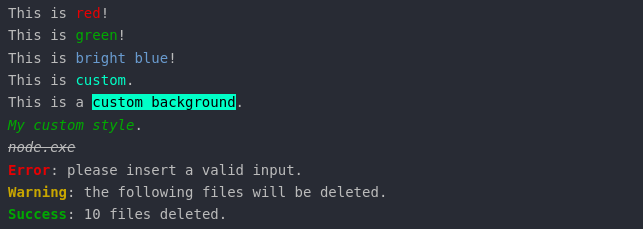
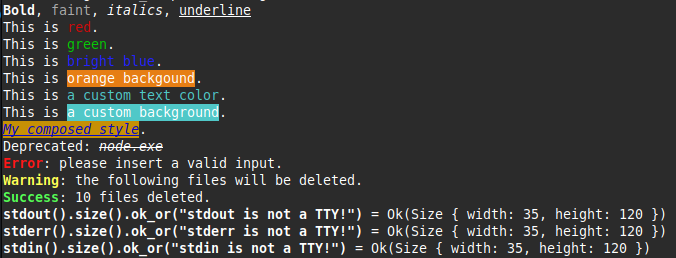
release 1.0.0

Changed region(s): [[0.0, 0.0, 0.9953, 1.0]]

diff --git a/src/main.rs b/src/main.rs
@@ -12,153 +12,162 @@ macro_rules! debug {
 
 // I'm using main because tests deactivate stdout
 fn main() {
-  use term_lab::styles::{ Stylize, Rgb };
+  let cmd = std::env::args().nth(1).unwrap_or("default".to_owned());
+  match cmd.as_str() {
+    "default" => default(),
+    "demo" => demo(),
+    _ => eprintln!("Oops")
+  }
+}
 
-// Use text styles.
-println!("{}", "bold".bold());
-println!("{}", "faint".faint());
-println!("{}", "italics".italics());
-println!("{}", "underline".underlined());
+fn default() {
+  debug!(stdout().size());
+  debug!(stderr().size());
+  debug!(stdin().size());
+  println!(
+    "{}, {}, {}",
+    "Bold".bold(),
+    "faint".faint(),
+    "italics".italics(),
+  );
+  println!(
+    "{}, {}",
+    "Slow blink".slow_blink(),
+    "fast blink".fast_blink()
+  );
+  println!(
+    "{}, ({})",
+    "Inverted".inverted(),
+    "invisible".invisible()
+  );
+  println!(
+    "{}, {}, {}, {}",
+    "Underline".underlined(),
+    "double underline".double_underlined(),
+    "overline".overlined(),
+    "striked".striked()
+  );
+  println!(
+    "{}, {}, {}, {}, {}, {}, {}, {}",
+    "Black".black(),
+    "red".red(),
+    "green".green(),
+    "yellow".yellow(),
+    "blue".blue(),
+    "magenta".magenta(),
+    "cyan".cyan(),
+    "white".white()
+  );
+  println!(
+    "{}, {}, {}, {}, {}, {}, {}, {}",
+    "Black".bright_black(),
+    "red".bright_red(),
+    "green".bright_green(),
+    "yellow".bright_yellow(),
+    "blue".bright_blue(),
+    "magenta".bright_magenta(),
+    "cyan".bright_cyan(),
+    "white".bright_white()
+  );
+  println!(
+    "{}, {}, {}, {}, {}, {}, {}, {}",
+    "Black".black_bg(),
+    "red".red_bg(),
+    "green".green_bg(),
+    "yellow".yellow_bg(),
+    "blue".blue_bg(),
+    "magenta".magenta_bg(),
+    "cyan".cyan_bg(),
+    "white".white_bg()
+  );
+  println!(
+    "{}, {}, {}, {}, {}, {}, {}, {}",
+    "Black".bright_black_bg(),
+    "red".bright_red_bg(),
+    "green".bright_green_bg(),
+    "yellow".bright_yellow_bg(),
+    "blue".bright_blue_bg(),
+    "magenta".bright_magenta_bg(),
+    "cyan".bright_cyan_bg(),
+    "white".bright_white_bg()
+  );
+  println!(
+    "{}, {}, {}",
+    "Orange".orange(),
+    "blueberry".blueberry(),
+    "pink".pink()
+  );
+  println!(
+    "{}, {}, {}",
+    "Orange".orange_bg(),
+    "blueberry".blueberry_bg(),
+    "pink".pink_bg()
+  );
+  println!(
+    "{}, {}, {}, {}",
+    "Deprecated".deprecated(),
+    "error".error(),
+    "warning".warning(),
+    "success".success()
+  );
+  let rgb = Rgb(110, 255, 175);
+  println!(
+    "{}, {}",
+    "RGB foreground".rgb(rgb),
+    "RGB background".rgb_bg(rgb)
+  );
+  let text = "Bold + italics".style()
+    .bold()
+    .italics()
+    .build();
+  println!("{} ({:?})", text, text);
+  let text = "A bunch of styles"
+    .style()
+    .rgb(Rgb(0xff, 0xff, 0x50))
+    .rgb_bg(Rgb(0x50, 0x50, 0xff)) 
+    .bold()
+    .faint()
+    .italics()
+    .double_underlined()
+    .overlined()
+    .striked()
+    .slow_blink()
+    .inverted()
+    .build();
+  println!("{} ({:?})", text, text);
+}
 
-// Use your terminal's color palette.
-println!("This is {}!", "red".red());
-println!("This is {}!", "green".green());
-println!("This is {}!", "bright blue".bright_blue());
-println!("This is {}!", "orange backgound".orange_bg());
+fn demo() {
+  // Use text styles.
+  println!(
+    "{}, {}, {}, {}",
+    "Bold".bold(),
+    "faint".faint(),
+    "italics".italics(),
+    "underline".underlined()
+  );
 
-// Use a custom color palette.
-println!("This is {}.", "custom".rgb(Rgb(80, 255, 200)));
-println!("This is a {}.", "custom background".rgb_bg(Rgb(80, 255, 200)));
+  // Use your terminal's color palette.
+  println!("This is {}.", "red".red());
+  println!("This is {}.", "green".green());
+  println!("This is {}.", "bright blue".bright_blue());
+  println!("This is {}.", "orange background".orange_bg());
 
-// Use a style builder to print less characters and improve performance.
-println!("{}.", "My custom style".style().green().italics().build()); 
+  // Use a custom color palette.
+  println!("This is {}.", "a custom text color".rgb(Rgb(80, 200, 200)));
+  println!("This is {}.", "a custom background".rgb_bg(Rgb(80, 200, 200)));
 
-// Some predefined styles.
-eprintln!("{}", "node.exe".deprecated());
-eprintln!("{}: please insert a valid input.", "Error".error());
-eprintln!("{}: the following files will be deleted.", "Warning".warning());
-eprintln!("{}: 10 files deleted.", "Success".success());
+  // Use a style builder to print less characters and improve performance.
+  println!("{}.", "My composed style".style().blue().yellow_bg().italics().underlined().build());
 
+  // Some predefined styles.
+  eprintln!("Deprecated: {}", "node.exe".deprecated());
+  eprintln!("{}: please insert a valid input.", "Error".error());
+  eprintln!("{}: the following files will be deleted.", "Warning".warning());
+  eprintln!("{}: 10 files deleted.", "Success".success());
 
-use std::io::{ stdout, stderr, stdin };
-use term_lab::info::TermInfo;
-
-// Get the size of the terminal
-dbg!(stdout().size().ok_or("stdout is not a TTY!"));
-dbg!(stderr().size().ok_or("stderr is not a TTY!"));
-dbg!(stdin().size().ok_or("stdin is not a TTY!"));
-  // debug!(stdout().size());
-  // debug!(stderr().size());
-  // debug!(stdin().size());
-  // println!(
-  //   "{}, {}, {}",
-  //   "Bold".bold(),
-  //   "faint".faint(),
-  //   "italics".italics(),
-  // );
-  // println!(
-  //   "{}, {}",
-  //   "Slow blink".slow_blink(),
-  //   "fast blink".fast_blink()
-  // );
-  // println!(
-  //   "{}, ({})",
-  //   "Inverted".inverted(),
-  //   "invisible".invisible()
-  // );
-  // println!(
-  //   "{}, {}, {}, {}",
-  //   "Underline".underlined(),
-  //   "double underline".double_underlined(),
-  //   "overline".overlined(),
-  //   "striked".striked()
-  // );
-  // println!(
-  //   "{}, {}, {}, {}, {}, {}, {}, {}",
-  //   "Black".black(),
-  //   "red".red(),
-  //   "green".green(),
-  //   "yellow".yellow(),
-  //   "blue".blue(),
-  //   "magenta".magenta(),
-  //   "cyan".cyan(),
-  //   "white".white()
-  // );
-  // println!(
-  //   "{}, {}, {}, {}, {}, {}, {}, {}",
-  //   "Black".bright_black(),
-  //   "red".bright_red(),
-  //   "green".bright_green(),
-  //   "yellow".bright_yellow(),
-  //   "blue".bright_blue(),
-  //   "magenta".bright_magenta(),
-  //   "cyan".bright_cyan(),
-  //   "white".bright_white()
-  // );
-  // println!(
-  //   "{}, {}, {}, {}, {}, {}, {}, {}",
-  //   "Black".black_bg(),
-  //   "red".red_bg(),
-  //   "green".green_bg(),
-  //   "yellow".yellow_bg(),
-  //   "blue".blue_bg(),
-  //   "magenta".magenta_bg(),
-  //   "cyan".cyan_bg(),
-  //   "white".white_bg()
-  // );
-  // println!(
-  //   "{}, {}, {}, {}, {}, {}, {}, {}",
-  //   "Black".bright_black_bg(),
-  //   "red".bright_red_bg(),
-  //   "green".bright_green_bg(),
-  //   "yellow".bright_yellow_bg(),
-  //   "blue".bright_blue_bg(),
-  //   "magenta".bright_magenta_bg(),
-  //   "cyan".bright_cyan_bg(),
-  //   "white".bright_white_bg()
-  // );
-  // println!(
-  //   "{}, {}, {}",
-  //   "Orange".orange(),
-  //   "blueberry".blueberry(),
-  //   "pink".pink()
-  // );
-  // println!(
-  //   "{}, {}, {}",
-  //   "Orange".orange_bg(),
-  //   "blueberry".blueberry_bg(),
-  //   "pink".pink_bg()
-  // );
-  // println!(
-  //   "{}, {}, {}, {}",
-  //   "Deprecated".deprecated(),
-  //   "error".error(),
-  //   "warning".warning(),
-  //   "success".success()
-  // );
-  // let rgb = Rgb(110, 255, 175);
-  // println!(
-  //   "{}, {}",
-  //   "RGB foreground".rgb(rgb),
-  //   "RGB background".rgb_bg(rgb)
-  // );
-  // let text = "Bold + italics".style()
-  //   .bold()
-  //   .italics()
-  //   .build();
-  // println!("{} ({:?})", text, text);
-  // let text = "A bunch of styles"
-  //   .style()
-  //   .rgb(Rgb(0xff, 0xff, 0x50))
-  //   .rgb_bg(Rgb(0x50, 0x50, 0xff)) 
-  //   .bold()
-  //   .faint()
-  //   .italics()
-  //   .double_underlined()
-  //   .overlined()
-  //   .striked()
-  //   .slow_blink()
-  //   .inverted()
-  //   .build();
-  // println!("{} ({:?})", text, text);
+  // Get the size of the terminal
+  debug!(stdout().size().ok_or("stdout is not a TTY!"));
+  debug!(stderr().size().ok_or("stderr is not a TTY!"));
+  debug!(stdin().size().ok_or("stdin is not a TTY!"));
 }

diff --git a/README.md b/README.md
@@ -17,23 +17,34 @@ cargo add term-lab
 use term_lab::styles::{ Stylize, Rgb };
 
 // Use text styles.
-println!("{}", "bold".bold());
-println!("{}", "faint".faint());
-println!("{}", "italics".italics());
-println!("{}", "underline".underlined());
+println!(
+  "{}, {}, {}, {}",
+  "Bold".bold(),
+  "faint".faint(),
+  "italics".italics(),
+  "underline".underlined()
+);
 
 // Use your terminal's color palette.
 println!("This is {}!", "red".red());
 println!("This is {}!", "green".green());
 println!("This is {}!", "bright blue".bright_blue());
-println!("This is {}!", "orange backgound".orange_bg());
+println!("This is {}!", "orange background".orange_bg());
 
 // Use a custom color palette.
-println!("This is {}.", "custom".rgb(Rgb(80, 255, 200)));
-println!("This is a {}.", "custom background".rgb_bg(Rgb(80, 255, 200)));
+println!("This is {}.", "custom".rgb(Rgb(80, 200, 200)));
+println!("This is a {}.", "custom background".rgb_bg(Rgb(80, 200, 200)));
 
 // Use a style builder to print less characters and improve performance.
-println!("{}.", "My custom style".style().green().italics().build()); 
+println!(
+  "{}.",
+  "My composed style"
+    .style()
+    .blue().yellow_bg()
+    .italics()
+    .underlined()
+    .build()
+);
 
 // Some predefined styles.
 eprintln!("Deprecated: {}", "node.exe".deprecated());
@@ -46,9 +57,9 @@ use std::io::{ stdout, stderr, stdin };
 use term_lab::info::TermInfo;
 
 // Get the size of the terminal
-dbg!(stdout().size().ok_or("stdout is not a TTY!"));
-dbg!(stderr().size().ok_or("stderr is not a TTY!"));
-dbg!(stdin().size().ok_or("stdin is not a TTY!"));
+debug!(stdout().size().ok_or("stdout is not a TTY!"));
+debug!(stderr().size().ok_or("stderr is not a TTY!"));
+debug!(stdin().size().ok_or("stdin is not a TTY!"));
 ```
 
 **Expected output**:<br>
